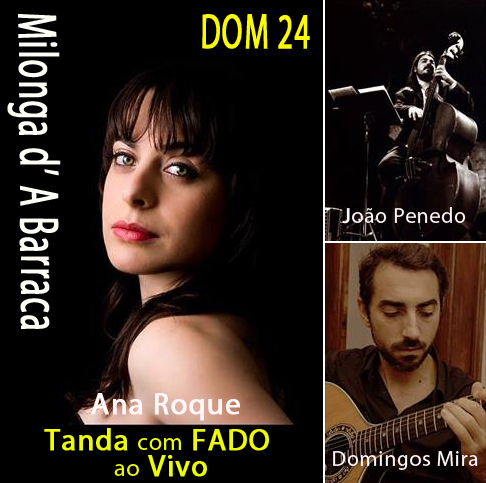
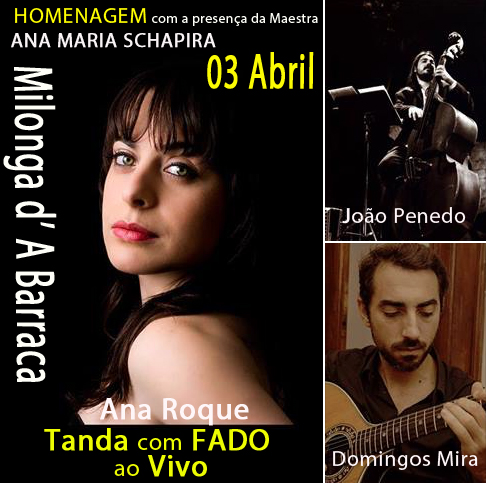
Nova actualizacao

Changed region(s): [[0.0, 0.0, 0.6481, 0.8075], [0.1852, 0.8075, 0.5247, 0.8696]]

diff --git a/public/main.htm b/public/main.htm
@@ -1037,7 +1037,8 @@ table tr .normal .MsoNormal .font_12 {
   <a href="http://www.abarraca.com" target="_new">Venue Teatro A Barraca</a> &laquo;Milonga d' A Barraca&raquo;</span></strong><span class="font_12"><br>
        em Mar&ccedil;o bailarina convidada Solange Galvao<br>
       </span><span class="font_12"><img src="Ale convida Sol-ed.jpg" alt="" width="497" height="372"></span></p>
-<p> <span class="font_12">27 de Dezembro 2015 Alejandro<em> convida</em> Milena Plebs <img src="Bailando cin Milena 1.jpg" alt="" width="409" height="279"></span></p>
+<p> <span class="font_12">Em 27 de Dezembro 2015 Alejandro<em> convidou</em>  Milena Plebs para a<br>
+</span><span class="font_12">sua aula na Barraca... </span><span class="font_12"><img src="Bailando cin Milena 1.jpg" alt="" width="463" height="315"></span></p>
       <p>Lake <span class="font_12">com </span> Joana Ramirez<br>
         <span class="font_12"><img src="Lake convida Joana.jpg" alt="" width="446" height="248"></span><span class="font_12"><br>
         <span class="MsoNormal" style="text-align:center; text-justify:inter-ideograph; font-family: Arial;"><strong><em><br>
@@ -1049,13 +1050,14 @@ table tr .normal .MsoNormal .font_12 {
     <br>
         <span class="style1">Foto gentileza Companhia de Dan&ccedil;a Contempor&acirc;nea. Solange Galv&atilde;o (2004) </span></span><br>
   <img src="../untitled2.gif" alt="" width="267" height="309"><span class="font_12">&nbsp;</span>&nbsp;</p>
-<p>Lembran&ccedil;as com MILENA PLEBS na Milonga d'A Barraca, 9 e 10 Maio 2015<br>
+<p>Lembran&ccedil;as  9 e 10 Maio 2015 em Lisboa<br>
+  com MILENA PLEBS na Milonga d'A Barraca,<br>
   <font color="#999999"><font color="#999999"><font color="#999999"><font color="#999999"><strong><font color="#999999"><font color="#999999"><strong><font color="#999999"><font color="#999999"><strong><font color="#999999"><font color="#999999"><font color="#999999"><span class="font_12"><img src="Gracias Mile y Lau.png" alt="" width="516" height="231"></span></font></font></font></strong></font></font></strong></font></font></strong></font></font></font></font><br>
   LAKE e Lautaro Cancela </p>
       <p><span class="font_12">Alejandro &eacute; natural de Buenos Aires. Nas aulas de tango da Milonga d' A Barraca aprendes a dan&ccedil;ar tango de pista 
         com uma did&aacute;tica do movimento que procura a sua fundamenta&ccedil;&atilde;o e que est&aacute; baseada na experi&ecirc;ncia do seu ambi&ecirc;nte natural: a Milonga</span>.</p>
       <p><span class="font_12">28 de Junho com Sabrina Gonzalez<br>
-        <img src="Sabrina copia.jpg" alt="" width="409" height="271">      <br>
+        <img src="Sabrina copia.jpg" alt="" width="458" height="304">      <br>
         Na Milonga d' A Barraca, aprendemos a comunicar as emo&ccedil;&otilde;es a trav&eacute;s de um abra&ccedil;o comprometido entre o Homem e a Mulher e procuramos dar sentido-sentido &agrave;s milongas tradicionais de Buenos Aires. Mas nem por isso deixando de incluir a forma do sentir Portugu&ecirc;s.&nbsp;&nbsp;&nbsp;&nbsp;</span>&nbsp;&nbsp;</p>
       <p class="MsoNormal" style="text-align:justify; text-justify:inter-ideograph;"><span class="MsoNormal" style="text-align:justify; text-justify:inter-ideograph;"><strong><span class="font_12"><img src="Alejandro1.jpg" width="563" height="316"><br>
       &nbsp;&nbsp;&nbsp;&nbsp;&nbsp;&nbsp;&nbsp;&nbsp;&nbsp;&nbsp;&nbsp;&nbsp;&nbsp;&nbsp;&nbsp;&nbsp;&nbsp;&nbsp;&nbsp;&nbsp;&nbsp;&nbsp;&nbsp;&nbsp;&nbsp;&nbsp;&nbsp;&nbsp;   &nbsp;&nbsp;&nbsp;&nbsp;&nbsp;&nbsp;&nbsp;&nbsp;&nbsp;&nbsp;&nbsp;&nbsp;&nbsp;&nbsp;&nbsp;&nbsp;&nbsp;&nbsp;&nbsp;&nbsp;&nbsp;&nbsp;&nbsp;&nbsp;&nbsp;&nbsp;&nbsp;&nbsp;&nbsp;&nbsp;&nbsp;&nbsp;&nbsp;&nbsp;&nbsp;&nbsp;com Joana Ramirez</span></strong></span> <span class="font_12"> </span><span class="font_12">Foto Jo&atilde;o Redondo</span></p>
@@ -1088,19 +1090,21 @@ Esta emo&ccedil;&atilde;o requer que um &laquo;corpo do tango&raquo; cres&ccedil
         Milhares de an&oacute;nimos milongueros e milongueras t&ecirc;m sabido mostrarmos que o Tango est&aacute; estreitamente vinculado a uma transmiss&atilde;o emocional a trav&eacute;s do nosso corpo e &eacute; produto da intera&ccedil;&atilde;o social gerada dentro do ambi&ecirc;nte da milonga.  </span><span class="font_12"><br>
       Buenos Aires, 08/2012 </span><span class="font_12"><br>
       </span></p>
-      <p class="MsoNormal" style="text-align:center; text-justify:inter-ideograph; font-family: Arial;"><span class="font_12"><br>
-        &nbsp;<span class="MsoNormal" style="text-align:center; text-justify:inter-ideograph; font-family: Arial;">Alejandro convida Anal&iacute;a Malgarini</span>&nbsp;&nbsp;&nbsp;&nbsp;&nbsp;&nbsp;<br>
-        <img src="AleyAna2013.JPG" alt="" width="460" height="304">&nbsp;&nbsp;&nbsp;&nbsp; &nbsp;</span></p>
-      <p class="MsoNormal" style="text-align:center; text-justify:inter-ideograph; font-family: Arial;">&nbsp;</p>
+      <p class="MsoNormal" style="text-align:center; text-justify:inter-ideograph; font-family: Arial;"><span class="font_12">Alejandro convida Mirta Tiseyra<br>
+          <img src="Aley mirta.jpg" alt="" width="525" height="391"><br>
+      </span></p>
+      <p class="MsoNormal" style="text-align:center; text-justify:inter-ideograph; font-family: Arial;"><span class="SBOA"><font color="#00FF00"><span class="style1">Alejandro </span></font></span><span class="font_12"><font color="#00FF00"><span class="style1">convida Analia Malgarini</span></font></span><span class="font_12">&nbsp;<br>
+        <img src="AleyAna2013.JPG" alt="" width="460" height="304"><br>
+        </span></p>
+      <p class="MsoNormal" style="text-align:center; text-justify:inter-ideograph; font-family: Arial;"><span class="font_12"><span class="MsoNormal" style="text-align:center; text-justify:inter-ideograph; font-family: Arial;"><span class="SBOA"><font color="#00FF00"><span class="style1">Alejandro con</span></font></span></span></span><span class="SBOA"><span class="MsoNormal" style="text-align:center; text-justify:inter-ideograph; font-family: Arial;"><span class="SBOA"><font color="#00FF00"><span class="style1">vida Ver&oacute;nica Oliveira </span></font></span></span></span><span class="font_12"><span class="MsoNormal" style="text-align:center; text-justify:inter-ideograph; font-family: Arial;"><strong><span class="AULA_DE_TANGO"><br>
+      </span></strong><strong><img src="1_vero.jpg" alt="Vero em Lisboa" width="522" height="335"></strong></span>&nbsp;&nbsp; &nbsp;</span></p>
+<p class="MsoNormal" style="text-align:center; text-justify:inter-ideograph; font-family: Arial;">&nbsp;</p>
       <p class="MsoNormal" style="text-align:center; text-justify:inter-ideograph; font-family: Arial;"><span class="font_12" style="text-align: center">Alejandro  convida Luciana  Cardoso (2014)</span><br>
         <span class="MsoNormal" style="text-align:center; text-justify:inter-ideograph; font-family: Arial;"><span class="font_12"><strong><span class="MsoNormal" style="text-align:center; text-justify:inter-ideograph;"><img src="1_n.jpg" alt="" width="335" height="404"></span></strong></span></span><br>
-        Alejandro convida Ver&oacute;nica Olivera <strong><span class="AULA_DE_TANGO"><br>
-        </span></strong><strong><img src="1_vero.jpg" alt="Vero em Lisboa" width="522" height="335"></strong><br>
         <br>
         <span class="MsoNormal" style="text-align:center; text-justify:inter-ideograph; font-family: Arial;">Alejandro convida </span>Andrea Uchitel<br>
         <img src="1_Uchitango copy.jpg" alt="" width="522" height="300"></p>
-      <p><span class="font_12">Alejandro convida Mirta Tiseyra<br>
-        <img src="Aley mirta.jpg" width="525" height="391"><br>
+      <p><span class="font_12"><br>
         <br>
         <span class="style1">&nbsp;</span></span><span class="font_12"><br>
       </span></p>
@@ -1115,7 +1119,7 @@ Esta emo&ccedil;&atilde;o requer que um &laquo;corpo do tango&raquo; cres&ccedil
         <p class="style1"><font color="#999999"><font color="#999999"><font color="#999999"><font color="#999999"><strong><font color="#999999"><font color="#999999"><strong><font color="#999999"><strong><font color="#999999"><font color="#999999"><font color="#999999"><strong><font color="#999999"><font color="#999999"><font color="#999999"><strong><font color="#999999"><strong><font color="#999999"><font color="#999999"><font color="#999999"><font color="#999999"><strong><font color="#999999"><font color="#999999"><strong><font color="#999999"><strong><font color="#999999"><font color="#999999"><font color="#999999"><font color="#999999"><span class="ALEJANDROLAGUNA"><span class="font_12"><font color="#999999"><font color="#999999"><font color="#999999"><font color="#999999"><font color="#999999"><font color="#999999"><font color="#999999"><font color="#999999"><strong><font color="#999999"><font color="#999999"><strong><font color="#999999"><strong><font color="#999999"><font color="#999999"><font color="#999999"><strong><strong><font color="#999999"><font color="#999999"><font color="#999999"><strong><strong><span class="AULA_DE_TANGO"><font color="#999999"><font color="#999999"><font color="#999999"><font color="#999999"><strong><font color="#999999"><font color="#999999"><strong><font color="#999999"><strong><font color="#999999"><font color="#999999"><font color="#999999"><strong><font color="#999999"><font color="#999999"><font color="#999999"><strong><font color="#999999"><strong><font color="#999999"><font color="#999999"><font color="#999999"><font color="#999999"><strong><font color="#999999"><font color="#999999"><strong><font color="#999999"><strong><font color="#999999"><font color="#999999"><font color="#999999"><font color="#999999">One of the oldest and traditional Milongas in Europ</font></font></font></font></strong></font></strong></font></font></strong></font></font></font></font></strong></font></strong></font></font></font></strong></font></font></font></strong></font></strong></font></font></strong></font></font></font></font></span></strong></strong></font></font></font></strong></strong></font></font></font></strong></font></strong></font></font></strong></font></font></font></font></font></font></font></font></span></span><span style="font: normal 18px Arial"><span class="SBOA"><font color="#999999"><font color="#999999"><font color="#999999"><font color="#999999"><font color="#999999"><font color="#999999"><font color="#999999"><font color="#999999"><strong><font color="#999999"><font color="#999999"><strong><font color="#999999"><strong><font color="#999999"><font color="#999999"><font color="#999999"><strong><strong><font color="#999999"><font color="#999999"><font color="#999999"><strong><strong><span style="font: normal 24px Arial"><font color="#999999"><font color="#999999"><font color="#999999"><font color="#999999"><strong><font color="#999999"><font color="#999999"><strong><font color="#999999"><strong><font color="#999999"><font color="#999999"><font color="#999999"><strong><font color="#999999"><font color="#999999"><font color="#999999"><strong><font color="#999999"><strong><font color="#999999"><font color="#999999"><font color="#999999"><font color="#999999"><strong><font color="#999999"><font color="#999999"><strong><font color="#999999"><strong><font color="#999999"><font color="#999999"><font color="#999999"><font color="#999999">e<br>
         </font></font></font></font></strong></font></strong></font></font></strong></font></font></font></font></strong></font></strong></font></font></font></strong></font></font></font></strong></font></strong></font></font></strong></font></font></font></font></span></strong></strong></font></font></font></strong></strong></font></font></font></strong></font></strong></font></font></strong></font></font></font></font></font></font></font></font></span></span></font></font></font></font></strong></font></strong></font></font></strong></font></font></font></font></strong></font></strong></font></font></font></strong></font></font></font></strong><span class="AULA_DE_TANGO"><font color="#999999"><font color="#999999"><font color="#999999"><font color="#999999"><font color="#999999"><font color="#999999"><font color="#999999"><font color="#999999"><strong><strong><span class="font_12"><font color="#999999"><font color="#999999"><font color="#999999"><font color="#999999"><strong><font color="#999999"><font color="#999999"><strong><font color="#999999"><strong><font color="#999999"><font color="#999999"><font color="#999999"><font color="#999999"><strong><strong><font color="#999999"><font color="#999999"><font color="#999999"><font color="#999999"><strong><strong><span class="MsoNormal" style="text-justify:inter-ideograph; text-align: center;"><span class="MsoNormal" style="text-align:justify;line-height:150%;"><span style="line-height:150%; font-family:'Times New Roman'; font-size:12.0pt; color:black; "><font color="#999999"><span class="style11"><strong><strong><font face="Comic Sans MS"><font color="#CC9900" face="Arial"><font color="#999999"><font color="#999999"><font color="#999999"><font color="#999999"><font color="#999999"><font color="#999999"><font color="#999999"><font color="#999999"><font color="#999999"><font color="#999999"><font color="#999999"><font color="#999999"><font color="#999999"><font color="#999999"><font color="#999999"><font color="#999999"><strong><font color="#999999"><font color="#999999"><strong><font color="#999999"><strong><font color="#999999"><font color="#999999"><font color="#999999"><font color="#999999"><span class="ALEJANDROLAGUNA"><font color="#999999"><font color="#999999"><font color="#999999"><font color="#999999"><font color="#999999"><strong><font color="#999999"><strong><font color="#999999"><font color="#999999"><font color="#999999"><strong><font color="#999999"><strong><font color="#999999"><font color="#999999"><strong><strong><font color="#999999"><font color="#999999"><font color="#999999"><font color="#999999"><strong><font color="#999999"><font color="#999999"><strong><font color="#999999"><strong><font color="#999999"><font color="#999999"><font color="#999999"><font color="#999999"><font color="#999999"><font color="#999999"><font color="#999999"><strong><font color="#999999"><font color="#999999"><strong><font color="#999999"><strong><font color="#999999"><font color="#999999"><font color="#999999"><font color="#999999"><font color="#999999"><font color="#999999"><font color="#999999"><font color="#999999"><font color="#999999"><strong><strong><strong><strong><strong><strong><strong><strong><span class="MsoNormal" style="text-align:justify;line-height:150%;"><span class="MsoNormal" style="text-align:justify;line-height:150%;"><span class="MsoNormal" style="text-align:justify;line-height:150%;"><font color="#999999"><font color="#999999"><font color="#999999"><font color="#999999"><strong><font color="#999999"><font color="#999999"><strong><font color="#999999"><strong><font color="#999999"><font color="#999999"><font color="#999999"><strong><font color="#999999"><font color="#999999"><font color="#999999"><strong><font color="#999999"><strong><span style="font: normal 24px Arial"><font color="#999999"><font color="#999999"><font color="#999999"><font color="#999999"><strong><font color="#999999"><font color="#999999"><strong><font color="#999999"><strong><font color="#999999"><font color="#999999"><font color="#999999"><font color="#999999"><font color="#999999"><font color="#999999"><font color="#999999"><font color="#999999"><font color="#999999"><font color="#999999"><font color="#999999"><font color="#999999"><strong><font color="#999999"><font color="#999999"><strong><font color="#999999"><strong><font color="#999999"><font color="#999999"><font color="#999999"><strong><strong><font color="#999999"><font color="#999999"><font color="#999999"><strong><strong>Domingos / Sunday</strong></strong></font></font></font></strong></strong></font></font></font></strong></font></strong></font></font></strong></font></font></font></font></font></font></font></font></font></font></font></font></strong></font></strong></font></font></strong></font></font></font></font></span></strong></font></strong></font></font></font></strong></font></font></font></strong></font></strong></font></font></strong></font></font></font></font></span></span></span></strong></strong></strong></strong></strong></strong></strong></strong></font></font></font></font></font></font></font></font></font></strong></font></strong></font></font></strong></font></font></font></font></font></font></font></strong></font></strong></font></font></strong></font></font></font></font></strong></strong></font></font></strong></font></strong></font></font></font></strong></font></strong></font></font></font></font></font></span></font></font></font></font></strong></font></strong></font></font></strong></font></font></font></font></font></font></font></font></font></font></font></font></font></font></font></font></font></font></strong></strong></span></font></span></span></span></strong></strong></font></font></font></font></strong></strong></font></font></font></font></strong></font></strong></font></font></strong></font></font></font></font></span></strong></strong></font></font></font></font></font></font></font></font></span><span style="font: normal 24px Arial"><font color="#999999"><font color="#999999"><font color="#999999"><font color="#999999"><font color="#999999"><font color="#999999"><font color="#999999"><font color="#999999"><strong><strong><span class="SBOA"><font color="#999999"><font color="#999999"><font color="#999999"><font color="#999999"><strong><font color="#999999"><font color="#999999"><strong><font color="#999999"><strong><font color="#999999"><font color="#999999"><font color="#999999"><font color="#999999"><strong><strong><font color="#999999"><font color="#999999"><font color="#999999"><font color="#999999"><strong><strong><span class="MsoNormal" style="text-justify:inter-ideograph; text-align: center;"><span class="MsoNormal" style="text-align:justify;line-height:150%;"><span style="line-height:150%; font-family:'Times New Roman'; font-size:12.0pt;"><font color="#999999"><span class="style11"><strong><strong><font color="#CC9900"><font color="#999999"><font color="#999999"><font color="#999999"><font color="#999999"><font color="#999999"><font color="#999999"><font color="#999999"><font color="#999999"><font color="#999999"><font color="#999999"><font color="#999999"><font color="#999999"><font color="#999999"><font color="#999999"><font color="#999999"><font color="#999999"><strong><font color="#999999"><font color="#999999"><strong><font color="#999999"><strong><font color="#999999"><font color="#999999"><font color="#999999"><font color="#999999"><span style="font: normal 18px Arial"><font color="#999999"><font color="#999999"><font color="#999999"><font color="#999999"><font color="#999999"><strong><font color="#999999"><strong><font color="#999999"><font color="#999999"><font color="#999999"><strong><font color="#999999"><strong><font color="#999999"><font color="#999999"><strong><strong><font color="#999999"><font color="#999999"><font color="#999999"><font color="#999999"><strong><font color="#999999"><font color="#999999"><strong><font color="#999999"><strong><font color="#999999"><font color="#999999"><font color="#999999"><font color="#999999"><font color="#999999"><font color="#999999"><font color="#999999"><strong><font color="#999999"><font color="#999999"><strong><font color="#999999"><strong><font color="#999999"><font color="#999999"><font color="#999999"><font color="#999999"><font color="#999999"><font color="#999999"><font color="#999999"><font color="#999999"><font color="#999999"><strong><strong><strong><strong><strong><strong><strong><strong><span class="MsoNormal" style="text-align:justify;line-height:150%;"><span class="MsoNormal" style="text-align:justify;line-height:150%;"><span class="MsoNormal" style="text-align:justify;line-height:150%;"><font color="#999999"><font color="#999999"><font color="#999999"><font color="#999999"><strong><font color="#999999"><font color="#999999"><strong><font color="#999999"><strong><font color="#999999"><font color="#999999"><font color="#999999"><strong><font color="#999999"><font color="#999999"><font color="#999999"><strong><font color="#999999"><strong><span style="font: normal 24px Arial; font-size: 24px"><font color="#999999"><font color="#999999"><font color="#999999"><font color="#999999"><strong><font color="#999999"><font color="#999999"><strong><font color="#999999"><strong><font color="#999999"><font color="#999999"><font color="#999999"><font color="#999999"><font color="#999999"><font color="#999999"><font color="#999999"><font color="#999999"><font color="#999999"><font color="#999999"><font color="#999999"><font color="#999999"><strong><font color="#999999"><font color="#999999"><strong><font color="#999999"><strong><font color="#999999"><font color="#999999"><font color="#999999"><strong><strong><font color="#999999"><font color="#999999"><strong><strong>: </strong></strong></font></font></strong></strong></font></font></font></strong></font></strong></font></font></strong></font></font></font></font></font></font></font></font></font></font></font></font></strong></font></strong></font></font></strong></font></font></font></font></span></strong></font></strong></font></font></font></strong></font></font></font></strong></font></strong></font></font></strong></font></font></font></font></span></span></span></strong></strong></strong></strong></strong></strong></strong></strong></font></font></font></font></font></font></font></font></font></strong></font></strong></font></font></strong></font></font></font></font></font></font></font></strong></font></strong></font></font></strong></font></font></font></font></strong></strong></font></font></strong></font></strong></font></font></font></strong></font></strong></font></font></font></font></font></span></font></font></font></font></strong></font></strong></font></font></strong></font></font></font></font></font></font></font></font></font></font></font></font></font></font></font></font></font></strong></strong></span></font></span></span></span></strong></strong></font></font></font></font></strong></strong></font></font></font></font></strong></font></strong></font></font></strong></font></font></font></font></span></strong></strong></font></font></font></font></font></font></font></font></span><span class="AULA_DE_TANGO"><font color="#999999"><font color="#999999"><font color="#999999"><font color="#999999"><font color="#999999"><font color="#999999"><font color="#999999"><font color="#999999"><strong><strong><span class="font_12"><font color="#999999"><font color="#999999"><font color="#999999"><font color="#999999"><strong><font color="#999999"><font color="#999999"><strong><font color="#999999"><strong><font color="#999999"><font color="#999999"><font color="#999999"><font color="#999999"><strong><strong><font color="#999999"><font color="#999999"><font color="#999999"><font color="#999999"><strong><strong><span class="MsoNormal" style="text-justify:inter-ideograph; text-align: center;"><span class="MsoNormal" style="text-align:justify;line-height:150%;"><span style="line-height:150%; font-family:'Times New Roman'; font-size:12.0pt; color:black; "><font color="#999999"><span class="style11"><strong><strong><font face="Comic Sans MS"><font color="#CC9900" face="Arial"><font color="#999999"><font color="#999999"><font color="#999999"><font color="#999999"><font color="#999999"><font color="#999999"><font color="#999999"><font color="#999999"><font color="#999999"><font color="#999999"><font color="#999999"><font color="#999999"><font color="#999999"><font color="#999999"><font color="#999999"><font color="#999999"><strong><font color="#999999"><font color="#999999"><strong><font color="#999999"><strong><font color="#999999"><font color="#999999"><font color="#999999"><font color="#999999"><span class="ALEJANDROLAGUNA"><font color="#999999"><font color="#999999"><font color="#999999"><font color="#999999"><font color="#999999"><strong><font color="#999999"><strong><font color="#999999"><font color="#999999"><font color="#999999"><strong><font color="#999999"><strong><font color="#999999"><font color="#999999"><strong><strong><font color="#999999"><font color="#999999"><font color="#999999"><font color="#999999"><strong><font color="#999999"><font color="#999999"><strong><font color="#999999"><strong><font color="#999999"><font color="#999999"><font color="#999999"><font color="#999999"><font color="#999999"><font color="#999999"><font color="#999999"><strong><font color="#999999"><font color="#999999"><strong><font color="#999999"><strong><font color="#999999"><font color="#999999"><font color="#999999"><font color="#999999"><font color="#999999"><font color="#999999"><font color="#999999"><font color="#999999"><font color="#999999"><strong><strong><strong><strong><strong><strong><strong><strong><span class="MsoNormal" style="text-align:justify;line-height:150%;"><span class="MsoNormal" style="text-align:justify;line-height:150%;"><span class="MsoNormal" style="text-align:justify;line-height:150%;"><font color="#999999"><font color="#999999"><font color="#999999"><font color="#999999"><strong><font color="#999999"><font color="#999999"><strong><font color="#999999"><strong><font color="#999999"><font color="#999999"><font color="#999999"><strong><font color="#999999"><font color="#999999"><font color="#999999"><strong><font color="#999999"><strong><span style="font: normal 24px Arial"><font color="#999999"><font color="#999999"><font color="#999999"><font color="#999999"><strong><font color="#999999"><font color="#999999"><strong><font color="#999999"><strong><font color="#999999"><font color="#999999"><font color="#999999"><font color="#999999"><font color="#999999"><font color="#999999"><font color="#999999"><font color="#999999"><font color="#999999"><font color="#999999"><font color="#999999"><font color="#999999"><strong><font color="#999999"><font color="#999999"><strong><font color="#999999"><strong><font color="#999999"><font color="#999999"><font color="#999999"><strong><strong><font color="#999999"><font color="#999999"><font color="#999999"><strong><strong>21h30 &mdash; 00h30</strong></strong></font></font></font></strong></strong></font></font></font></strong></font></strong></font></font></strong></font></font></font></font></font></font></font></font></font></font></font></font></strong></font></strong></font></font></strong></font></font></font></font></span></strong></font></strong></font></font></font></strong></font></font></font></strong></font></strong></font></font></strong></font></font></font></font><img src="XVI anos.JPG" alt="" width="580" height="173"></span></span></span></strong></strong></strong></strong></strong></strong></strong></strong></font></font></font></font></font></font></font></font></font></strong></font></strong></font></font></strong></font></font></font></font></font></font></font></strong></font></strong></font></font></strong></font></font></font></font></strong></strong></font></font></strong></font></strong></font></font></font></strong></font></strong></font></font></font></font></font></span></font></font></font></font></strong></font></strong></font></font></strong></font></font></font></font></font></font></font></font></font></font></font></font></font></font></font></font></font></font></strong></strong></span></font></span></span></span></strong></strong></font></font></font></font></strong></strong></font></font></font></font></strong></font></strong></font></font></strong></font></font></font></font></span></strong></strong></font></font></font></font></font></font></font></font></span></font></strong><font color="#999999"><font color="#999999"><strong><font color="#999999"><strong><font color="#999999"><font color="#999999"><font color="#999999"><strong><font color="#999999"><font color="#999999"><strong><strong><span style="font: normal 24px Arial"><br>
           </span></strong></strong></font></font></strong></font></font></font></strong></font></strong></font></font></font></font></strong></font></font></font></font><span class="style111"><font color="#999999"><font color="#999999"><font color="#999999"><font color="#999999"><font color="#999999"><font color="#999999"><font color="#999999"><font color="#999999"><strong><font color="#999999"><font color="#999999"><strong><font color="#999999"><strong><font color="#999999"><font color="#999999"><font color="#999999"><strong><strong><font color="#999999"><font color="#999999"><font color="#999999"><strong><strong><span class="SBOA"><span style="font: normal 24px Arial"><font color="#999999"><font color="#999999"><font color="#999999"><font color="#999999"><strong><font color="#999999"><font color="#999999"><strong><font color="#999999"><strong><font color="#999999"><font color="#999999"><font color="#999999"><font color="#999999"><strong><strong><font color="#999999"><font color="#999999"><font color="#999999"><font color="#999999"><strong><strong><span class="MsoNormal" style="text-justify:inter-ideograph; text-align: center;">U</span></strong></strong></font></font></font></font></strong></strong></font></font></font></font></strong></font></strong></font></font></strong></font></font></font></font></span></span><span class="font_12"><span class="AULA_DE_TANGO"><font color="#999999"><font color="#999999"><font color="#999999"><font color="#999999"><strong><font color="#999999"><font color="#999999"><strong><font color="#999999"><strong><font color="#999999"><font color="#999999"><font color="#999999"><font color="#999999"><strong><strong><font color="#999999"><font color="#999999"><font color="#999999"><font color="#999999"><strong><strong><span class="MsoNormal" style="text-justify:inter-ideograph; text-align: center;">m  pedacinho de Buenos A</span></strong></strong></font></font></font></font></strong></strong></font></font></font></font></strong></font></strong></font></font></strong></font></font></font></font></span><span style="font: normal 24px Arial"><font color="#999999"><font color="#999999"><font color="#999999"><font color="#999999"><strong><font color="#999999"><font color="#999999"><strong><font color="#999999"><strong><font color="#999999"><font color="#999999"><font color="#999999"><font color="#999999"><strong><strong><font color="#999999"><font color="#999999"><font color="#999999"><font color="#999999"><strong><strong><span class="MsoNormal" style="text-justify:inter-ideograph; text-align: center;">ire</span></strong></strong></font></font></font></font></strong></strong></font></font></font></font></strong></font></strong></font></font></strong></font></font></font></font></span></span><span style="font: normal 13px/normal Arial"><span class="SBOA"><span style="font: normal 24px Arial"><font color="#999999"><font color="#999999"><font color="#999999"><font color="#999999"><strong><font color="#999999"><font color="#999999"><strong><font color="#999999"><strong><font color="#999999"><font color="#999999"><font color="#999999"><font color="#999999"><strong><strong><font color="#999999"><font color="#999999"><font color="#999999"><font color="#999999"><strong><strong><span class="MsoNormal" style="text-justify:inter-ideograph; text-align: center;">s </span></strong></strong></font></font></font></font></strong></strong></font></font></font></font></strong></font></strong></font></font></strong></font></font></font></font></span></span></span></strong></strong><font color="#999999"><font color="#999999"><font color="#999999"><strong><strong><span class="font_12"><span style="font: normal 24px Arial"><font color="#999999"><font color="#999999"><font color="#999999"><font color="#999999"><strong><font color="#999999"><font color="#999999"><strong><font color="#999999"><strong><font color="#999999"><font color="#999999"><font color="#999999"><font color="#999999"><strong><strong><font color="#999999"><font color="#999999"><font color="#999999"><font color="#999999"><strong><strong><span class="MsoNormal" style="text-justify:inter-ideograph; text-align: center;"><span class="MsoNormal" style="text-justify:inter-ideograph;">na</span></span></strong></strong></font></font></font></font></strong></strong></font></font></font></font></strong></font></strong></font></font></strong></font></font></font></font></span><span class="AULA_DE_TANGO"><font color="#999999"><font color="#999999"><font color="#999999"><font color="#999999"><strong><font color="#999999"><font color="#999999"><strong><font color="#999999"><strong><font color="#999999"><font color="#999999"><font color="#999999"><font color="#999999"><strong><strong><font color="#999999"><font color="#999999"><font color="#999999"><font color="#999999"><strong><strong><span class="MsoNormal" style="text-justify:inter-ideograph; text-align: center;"><span class="MsoNormal" style="text-justify:inter-ideograph;"> bela Lisboa</span></span></strong></strong></font></font></font></font></strong></strong></font></font></font></font></strong></font></strong></font></font></strong></font></font></font></font></span></span></strong></strong></font></font></font></font></font></font></strong></strong></font></font></font></strong></font></strong></font></font></strong></font></font></font></font></font></font></font></font><br>
-          13 de Mar&ccedil;o &mdash; Milonga n&ordm;836</span><br>
+          20 de Mar&ccedil;o &mdash; Milonga n&ordm;837</span><br>
           ORGANIZA e MUSICALIZA LAKE <br>
           Frente da Casa MIRELU&Ccedil; &mdash; Bar SANDRA e ANDR&Eacute;<br>
           <font color="#999999"><font color="#999999"><font color="#999999"><font color="#999999"><strong><font color="#999999"><font color="#999999"><strong><font color="#999999"><strong><font color="#999999"><font color="#999999"><font color="#999999"><font color="#999999"><font color="#999999"><font color="#999999"><font color="#999999"><font color="#999999"><font color="#999999"><strong><font color="#999999"><strong><font color="#999999"><font color="#999999"><font color="#999999"><strong><font color="#999999"><strong><font color="#999999"><font color="#999999"><strong><strong><font color="#999999"><font color="#999999"><font color="#999999"><font color="#999999"><strong><font color="#999999"><font color="#999999"><strong><font color="#999999"><strong><font color="#999999"><font color="#999999"><font color="#999999"><font color="#999999"><font color="#999999"><font color="#999999"><font color="#999999"><strong><font color="#999999"><font color="#999999"><strong><font color="#999999"><strong><font color="#999999"><font color="#999999"><font color="#999999"><font color="#999999"><font color="#999999"><font color="#999999"><font color="#999999"><font color="#999999"><font color="#999999"><font color="#999999"><font color="#999999"><strong><font color="#999999"><font color="#999999"><strong><font color="#999999"><strong><font color="#999999"><font color="#999999"><font color="#999999"><font color="#999999"><strong><font color="#999999"><font color="#999999"><strong><font color="#999999"><strong><font color="#999999"><font color="#999999"><font color="#999999"><font color="#999999"><strong><strong><span class="MsoNormal" style="text-align:justify;line-height:150%;"><font color="#999999"><font color="#999999"><font color="#999999"><font color="#999999"><strong><strong><font color="#CC9900" face="Arial"><a href="http://www.abarraca.com" target="_new">Teatro A Barraca</a> &mdash; Largo de Santos 2<span style="text-align: center; font: normal 14px Arial;">,</span> Santos &mdash; LISBOA<a href="http://maps.google.pt/maps?q=teatro+cinearte&hl=pt-PT&ll=38.708135,-9.15498&spn=0.008355,0.017359&fb=1&gl=pt&hq=teatro+cinearte&cid=0,0,1870763517737540757&sqi=2&t=m&z=16" target="_new">&nbsp;&nbsp;<br>
@@ -1124,15 +1128,12 @@ Esta emo&ccedil;&atilde;o requer que um &laquo;corpo do tango&raquo; cres&ccedil
   The oldest milonga in Portugal and one of the oldest and traditional in Europe. Founded, in 1999, by Alejandro Laguna, original from Buenos Aires, and Solange Galv&atilde;o, from Oporto. <br>
     Stands out for the promotion of the social tango from Buenos Aires and for the consistency in the values that provides to the participants, emphasizing the intimate meaning from the embrace, the music and the social celebration of the milonga as the center of tango. <br>
     Milonga d&rsquo; A Barraca is characterized, since 1999, for its loyalty to the traditional tango and for its communion with the traditional Portuguese fado.<br>
-  </span><span style="font-family:'Times New Roman'; font-size:12.0pt; color:black; ">An original idea created by the dancers and professors Alejandro &amp; Solange that was further developed by Alejandro. This has been gaining the attention of some of the most renowned Fado musician and singers in Portugal</span>.</p>
-        <p class="style1"><span style="font-family:'Times New Roman'; font-size:12.0pt; color:#D00; font-weight: bold;"> Domingo 3 de Abril, <br>
-          Ciclo: conhecendo aos nossos melhores Fadistas<br>
-          Homenaje &agrave; Maestra Ana Maria Schapira
-          <br>
-          <img src="POSTAL ROQUE.jpg" width="344" height="350"></span></p>
+  </span><span style="font-family:'Times New Roman'; font-size:12.0pt; color:black; ">An original idea created by the dancers and professors Alejandro &amp; Solange that was further developed by Alejandro. This has been gaining the attention of some of the most renowned Fado musician and singers in Portugal</span>.<br>
+  <span style="font-family:'Times New Roman'; font-size:12.0pt; color:#D00; font-weight: bold;"><br>
+          <img src="POSTAL ROQUE.jpg" width="463" height="469"></span></p>
         <p class="style1"><font color="#FFFFFF" face="Arial" class="normal"><strong><span class="font_12">Maria do C&eacute;u Guerra,  diretora do Teatro A Barraca <br>
 e </span><span class="AULA_DE_TANGO"><span class="font_12"> Alejandro organizador e musicalizador da Milonga d' A Barraca (2014).</span></span></strong></font> <br>
-          <img src="imagens/1_AleyMariadoCeu.jpg" width="522" height="385"><br>
+          <img src="imagens/1_AleyMariadoCeu.jpg" width="496" height="365"><br>
 <strong><font color="#CC9900" face="Arial"><strong><font color="#FFFFFF" face="Arial"><strong><font color="#FFFFFF" face="Arial" class="normal"><span class="font_12">A milonga d' A Barraca</span><span class="SBOA"> </span><span class="font_12">tem pista em madeira </span></font></strong></font></strong></font></strong><strong><font color="#CC9900" face="Arial"><strong><font color="#FFFFFF" face="Arial"><strong><font color="#FFFFFF" face="Arial" class="normal"><span class="font_12">e um excelente bar com <br>
 um amplo balc&atilde;o</span></font></strong></font></strong></font>. <font color="#CC9900" face="Arial"><strong><font color="#FFFFFF" face="Arial"><strong><font color="#FFFFFF" face="Arial" class="normal"><span class="font_12">Selec&ccedil;&atilde;o musical orquestras de</span> <span class="font_12">1940-50<span style="font: normal 14px/normal Arial; text-align: center;">. </span></span></font></strong><span class="font_12"><br>
             &nbsp;<img src="capt-.png" alt="" width="501" height="521"></span></font></strong></font><font color="#FFFFFF" face="Arial"><strong><span class="AULA_DE_TANGO"><font color="#FFFFFF" face="Arial" class="normal"><span class="font_12"><br>
@@ -1190,16 +1191,15 @@ um amplo balc&atilde;o</span></font></strong></font></strong></font>. <font colo
   Letra : Reinaldo Yiso  (Reinaldo Ghiso)<br>
   M&uacute;sica : Enrique Mora  (Enrique Fausto Mora)<span class="font_12"><br>
     <br>
-    </span><span class="style1">Alejandro com Luciana Guz  na Piccola Milonga  Bs As (2013</span>)<br>
-    <img src="1ag.jpg" alt="" width="522" height="348"><span class="style1"><br>
-      &nbsp;&nbsp;&nbsp;&nbsp;&nbsp;&nbsp;&nbsp;&nbsp;&nbsp;&nbsp;&nbsp;&nbsp;&nbsp;&nbsp;&nbsp;&nbsp;&nbsp;&nbsp;&nbsp;&nbsp;&nbsp;&nbsp;&nbsp;&nbsp;&nbsp;&nbsp;&nbsp;&nbsp;&nbsp;&nbsp;&nbsp;</span> </font></p>
-      <p><font color="#00FF00"><strong>&nbsp;<img src="foto ale y joa copy.jpg" alt="" width="522" height="484"></strong> </font><br>
+    </span><span class="style1">Alejandro   na Piccola Milonga  Bs As (2013</span>) <span class="style1">com Luciana Guz</span><br>
+    <img src="1ag.jpg" alt="" width="448" height="298"><span class="style1"><br>
+    &nbsp;&nbsp;&nbsp;&nbsp;&nbsp;&nbsp;&nbsp;&nbsp;&nbsp;&nbsp;&nbsp;&nbsp;&nbsp;</span></font></p>
+      <p><font color="#00FF00"><strong>&nbsp;<img src="foto ale y joa copy.jpg" alt="" width="442" height="409"></strong> </font><br>
         <span style="font-size: 14px; color: #0094DE;">&nbsp;&nbsp;<br>
-        <span class="style1"><a href="http://www.clarin.com/ciudades/Nadie-pisa-argentinos_0_982101834.html" target="_new">&nbsp;Link:  Pisar el tango por Eduardo Arquimbau.         Os componentes da express&atilde;o <br>
-        social  do baile de tango </a></span></span><span class="font_12"><br>
-        </span></p>
-<p><span class="font_12"><strong><span class="AULA_DE_TANGO"><img src="Alejandro.jpg" alt="" width="462" height="305"></span></strong></span></p>
-<p><span class="font_12"><br>
+        <span class="style1"><a href="http://www.clarin.com/ciudades/Nadie-pisa-argentinos_0_982101834.html" target="_new">&nbsp;Link:  Pisar el tango por Eduardo Arquimbau.         <br>
+        Os componentes da express&atilde;o <br>
+        social  do baile de tango</a></span></span></p>
+<p><span class="font_12"><strong><span class="AULA_DE_TANGO"><img src="Alejandro.jpg" alt="" width="462" height="305"></span></strong></span><span class="font_12"><br>
   Alejandro com Mariana, Ant&oacute;nio Cha&iacute;nho e Marta Dias (Madrid 2003)<br>
   <img src="aleymare_2003_espanha.jpg" width="538" height="353"></span></p></td>
   </tr>
